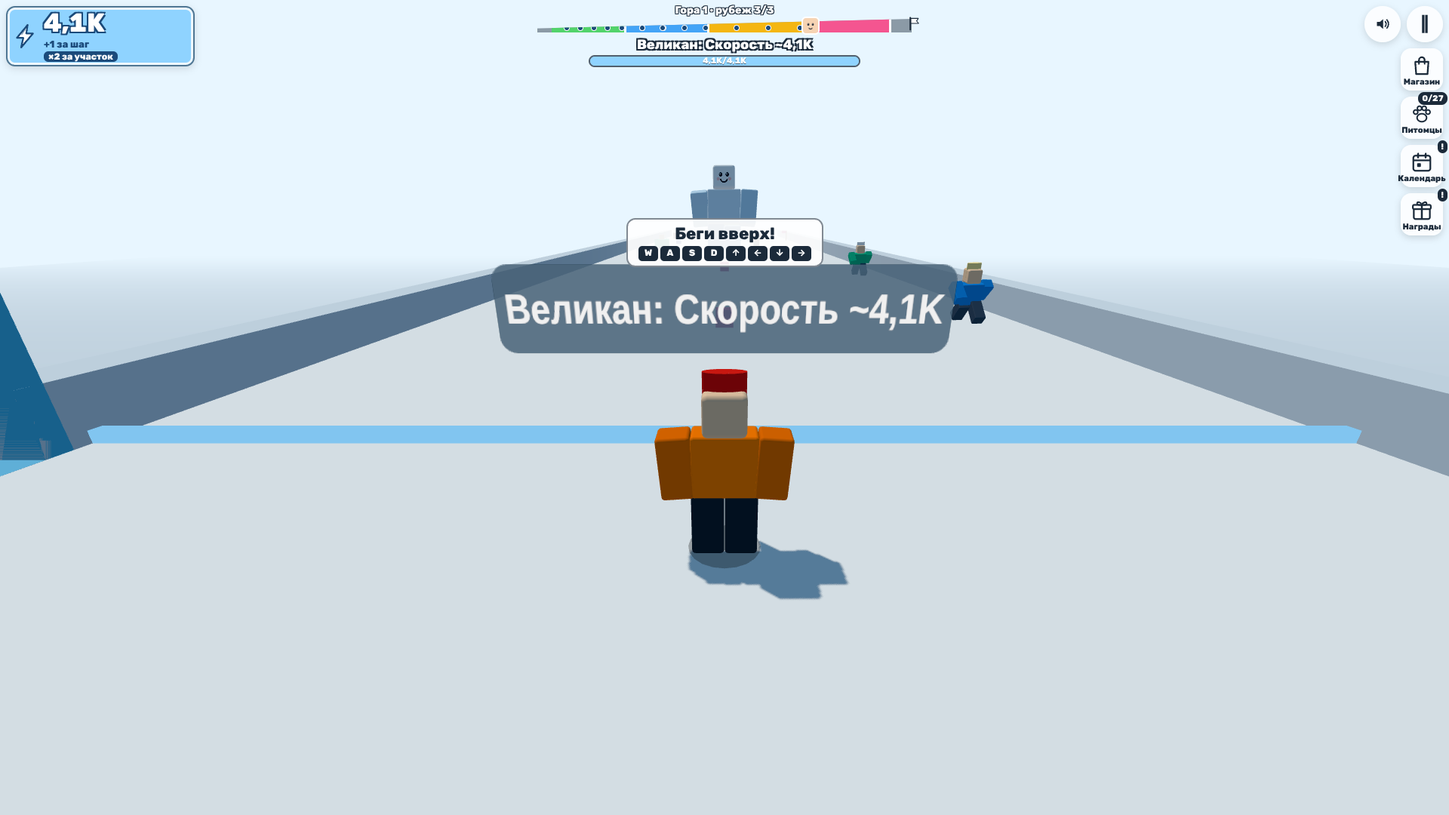
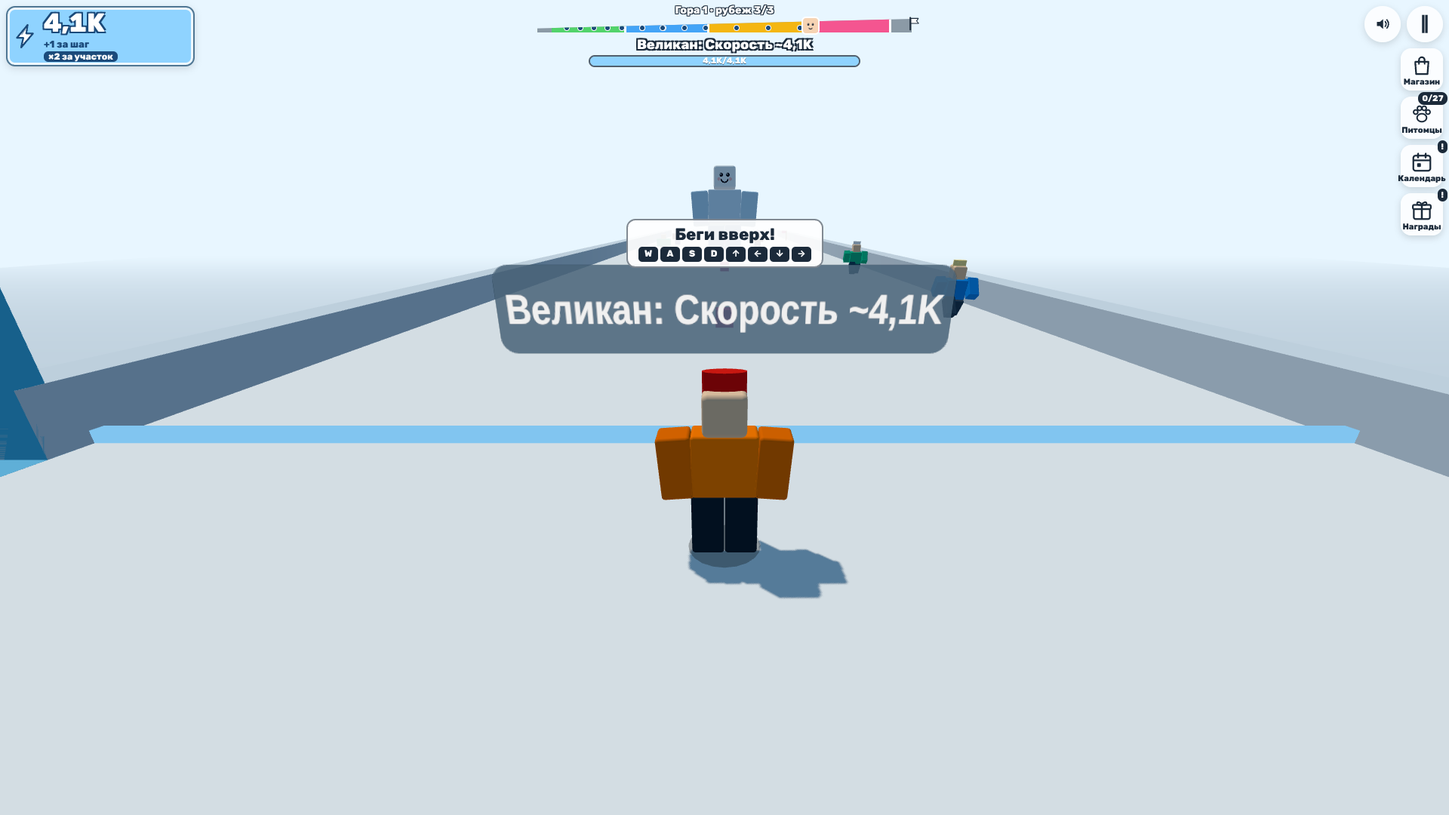
Ответ продюсера Q-047: великан выбирает героя, ботов ловит реже
Герой в зоне - всегда цель великана, бот - только пока героя нет;
bots.json boss.passShare 0,6 -> 0,8. Q-048 - в FM, идея лобби - Q-049.

Claude-Session: https://claude.ai/code/session_014PqKRgk8jBLya2eK7fSJBJ

diff --git a/src/sim/boss.ts b/src/sim/boss.ts
@@ -1,4 +1,4 @@
-// What: The giant of the open slope: each zone of worlds.json bosses[] with its giants — patrol along the slope, turn to the nearest runner (hero or bot), the slap or the slip past, the way back.
+// What: The giant of the open slope: each zone of worlds.json bosses[] with its giants — patrol along the slope, turn to the hero in the zone (else the nearest bot running it), the slap or the slip past, the way back.
 // Called by: sim/world.ts (createBoss, step every tick, its events go out through the sim bus); tests/sim/boss.test.ts.
 // Keep: Pure TS, no DOM, deterministic; every number from the data (zones, speeds, turnSec, returnMult, helpers — worlds.json; margin, reach — game.json threat.boss).
 
@@ -53,7 +53,7 @@ export interface BossEvents {
   helperHit: { tick: number; zone: number; slow: number; slowSec: number };
 }
 
-/** A bot running a giant's zone (docs/01-gdd.md 18.5): the giant goes at the nearest runner, bot or hero. */
+/** A bot running a giant's zone (docs/01-gdd.md 18.5): the giant goes at it only while the hero is not in the zone. */
 export interface BossRunner {
   bot: number;
   z: number;
@@ -185,9 +185,10 @@ export function createBoss(
             if (runners.length === 0) s.giants.forEach((g) => (g.mode = g.mode === 'sit' ? 'sit' : 'back'));
           }
         }
-        // The nearest runner to a giant: the hero in the zone or a bot running it.
+        // The hero in the zone first (producer 12.10, Q-047: the giant is about him); else the nearest bot running it.
         const target = (g: GiantState): number => {
-          let best = s.hero === 'in' ? hero.z : NaN;
+          if (s.hero === 'in') return hero.z;
+          let best = NaN;
           for (const r of runners) if (!slapped.has(r.bot) && !(Math.abs(r.z - g.z) >= Math.abs(best - g.z))) best = r.z;
           return best;
         };

diff --git a/tests/sim/rg-boss-bots.test.ts b/tests/sim/rg-boss-bots.test.ts
@@ -7,7 +7,7 @@ import { createBoss, type BossEvents } from '../../src/sim/boss.ts';
 import { createSim } from '../../src/sim/world.ts';
 import type { BalanceJson, BotsJson, GameJson, TuningJson, WorldBoss, WorldsJson } from '../../src/content/types.ts';
 
-// RG-10: the giant goes at bots too (docs/01-gdd.md 18.5; docs/01a-content.md 17.4).
+// RG-10: the giant goes at bots too, at the hero first (docs/01-gdd.md 18.5; docs/01a-content.md 17.4; Q-047).
 const root = resolve(__dirname, '../..');
 const read = <T>(f: string): T => JSON.parse(readFileSync(resolve(root, 'content/avalanche', f), 'utf8')) as T;
 const balance = mergePatch(read<BalanceJson>('balance.json'), read('pace/open/balance.json'));
@@ -52,7 +52,7 @@ describe('the giant goes at bots too (RG-10)', () => {
     expect(ev2.filter((e) => e.name === 'bossBotCaught')).toEqual([]);
   });
 
-  it('with the hero and a bot in the zone the giant goes at the nearer one', () => {
+  it('with the hero and a bot in the zone the giant goes at the hero, even past a nearer bot (Q-047)', () => {
     const { b } = boss();
     const g = b.zones[0]!.giants[0]!;
     g.z = 150;
@@ -60,8 +60,8 @@ describe('the giant goes at bots too (RG-10)', () => {
     const bot = { bot: 0, z: 125, speed: 0 };
     for (let i = 0; i < 40; i++) b.step(DT, hero, true, i, [bot]);
     expect(g.mode).toBe('chase');
-    expect(g.dir).toBe(-1);
-    expect(g.z).toBeLessThan(150);
+    expect(g.dir).toBe(1);
+    expect(g.z).toBeGreaterThan(150);
   });
 
   it('mountain 1: bots wait by the zone, run it; some slapped and rolled back to its start, about passShare past him', () => {

diff --git a/QUESTIONS.md b/QUESTIONS.md
@@ -367,16 +367,26 @@
 - По умолчанию: A — для игры 2 это тоже данные (`giants[]` с `phase` и ключ `boss.signPair` в i18n), стат, тема и числа в коде не появились; гора 1 байт в байт
 - Как переключить: убрать `boss.giants` у гор 9–10 в `worlds-spec.json`, затем `npm run gen:worlds` — вернётся один великан
 
-### Q-047 · Цель Метрики `boss_bot_caught`: оставить или убрать · по умолчанию
+### Q-047 · Цель Метрики `boss_bot_caught`: оставить или убрать · решён
 - Где: `docs/06-analytics.md`, раздел 2 (таблица «Простор») и раздел 6 (цели простора); фича RG-10
 - Суть: великан хлопает ботов несколько раз за заход героя в зону — событие частое и не про игрока; в отчётах Метрики оно забьёт цели простора и ничего не скажет об удержании
 - Варианты: A — убрать из целей, оставить в буфере `__TEST__.events` для тестов (цели простора 10, итого 47 / 51); B — оставить как есть (11, итого 48 / 52)
 - По умолчанию: B — так записано в `06`, а цель на счётчике продюсер создаёт сам: не создать её — то же, что A, без правки кода
 - Как переключить: на A — удалить `boss_bot_caught` из списка целей `docs/06` раздел 6 и строку в `tests/analytics/open-events.test.ts`; вызов `track` в `src/main.ts` можно оставить
+- Решение продюсера (12.10): «если можно то сделать реже ловлю ботов, чаще сделать таргет на игрока если у великана есть выбор». Сделано: герой в зоне — цель великана всегда, бот — только пока героя в зоне нет (`src/sim/boss.ts`); `bots.json boss.passShare` 0,6 → 0,8 — ботов ловят реже, событие реже. Цель Метрики остаётся (B)
 
-### Q-048 · Через бортик склона и за портал вершины можно упасть · открыт
+### Q-048 · Через бортик склона и за портал вершины можно упасть · решён
 - Где: плейтест-смоук RG (`docs/evidence/rg/playtest.md`, худший момент 1 и «пропасть — откат на 330 ед»); темп `open` с вехи PS, не элементы RG
 - Суть: бортик склона 3 ед, прыжок героя выше: прыгая вбок, герой встаёт на бортик и падает за край (симуляция: горы 1, 5, 9, любая точка); за порталом вершины обрыв. Падение — белый экран и возврат к флажку, до 300 ед назад. В прогоне ПК — 27 падений за 2 минуты у портала горы 1
 - Варианты: A — невидимый коллайдер над бортиками до +6 ед и стенка за порталом вершины (код сборщика уровня, `worlds.json` и гора 1 по данным не меняются, первая минута та же для того, кто не прыгает за край); B — оставить, упавший возвращается к флажку
 - По умолчанию: ничего не менял — вне вехи RG и меняет поведение горы 1 («гора 1 без изменений»). Рекомендую A первой правкой вехи FM: дёшево, бьёт прямо в удержание первого дня
 - Как переключить: решение продюсера — сборщик делает A отдельной фичей с e2e «прыжки вбок у бортика и бег за портал — без падения»
+- Решение продюсера (12.10): A — чинить первой правкой вехи FM
+
+### Q-049 · База-лобби с порталами в зоны · открыт, к сессии проектирования FM
+- Где: идея продюсера 12.10 после игры в популярные обби каталога; затрагивает первую минуту (`01` 6.2, 17.8), FM, `03`
+- Суть (слова продюсера): «сделать базу с порталами… дорожки на базе, магазины, переход в телеграм канал за награду, таблица лидеров и подобное, НО очень важно сделать это понятно, мы не будем делать как в других играх сотни всего. Пусть будет как бы отправная точка-лобби, через которую игроки могут бежать в разные зоны уровней и возвращаться на базу после их прохождения… Главное это не перегрузить и сделать понятным ftue»
+- Что уже есть для этого: лагерь горы с дорожкой и стендами яиц, портал вершины, переход «к горе N», магазин и питомцы окнами, таблица рекордов выключена (Q-004)
+- Ограничения: переход в Telegram или любую соцсеть за награду на Яндексе запрещён — `03`, CNT-05 и 8.4 (нет ссылок, значков соцсетей, призывов «подпишись»); таблица рекордов — кнопка входа (SDK-06) и лидерборд в консоли до сборки (`03`, раздел про подачу)
+- Мой вывод для проектирования: лобби — хороший «дом» для возврата и меты, но ставить его перед первым забегом рискованно — первая минута сейчас ведёт сразу в бег и первый рубеж за 14 с (F1), а лишний экран до бега — главный риск удержания первого дня. Рекомендую: первый забег — как сейчас, лобби открывается после первой вершины (портал ведёт на базу), на базе 3–4 точки (порталы гор, дорожка, магазин, рекорды)
+- По умолчанию: ничего не строю до сессии проектирования FM

diff --git a/docs/01-gdd.md b/docs/01-gdd.md
@@ -1164,7 +1164,7 @@ FPS на телефоне продюсера — по итогам вехи PS (
 Почему шар — не ловкость: уворот — это выбор полосы со следом за 3 с, как выбор укрытия на сирене; попадание стоит 3 с и не отбрасывает. В теснине шар не катится (сойти некуда). Почему буран со «шаг ×2»: чистое замедление на 12 с в игре про рост числа — наказание без выбора; с компенсацией буран становится «пробиться сквозь» (светлый паттерн: награда вместо наказания — база геймдизайна, удержание). Как переключить — `events.blizzard.stepMult` 1 (`QUESTIONS.md` Q-041).
 
 ### 18.5 Великан: гоняется за ботами, помощники со снежками, два великана
-- **За ботами тоже (все горы).** Бот у начала зоны ждёт в гроте зоны 2–6 с и бежит зону со своей скоростью; великан разворачивается к ближайшему бегущему в зоне — боту или герою — и идёт на него; пойманного бота хлопок откатывает к началу зоны комом (как героя, 17.6), прошедший садится у вершины. Доля ботов, которым хватает скорости, — `bots.boss.passShare` 0,6: игрок с подножия видит и проходы, и поимки (показать на примере других). Герой в зоне, пока великан занят ботом, может проскочить — это честно и не ломает совет: модель (17.12) по-прежнему считает великана занятым героем, то есть пессимистична.
+- **За ботами тоже (все горы).** Бот у начала зоны ждёт в гроте зоны 2–6 с и бежит зону со своей скоростью; великан разворачивается к герою, если тот в зоне, иначе к ближайшему бегущему боту, и идёт на него (решение продюсера 12.10, Q-047: великан — про игрока); пойманного бота хлопок откатывает к началу зоны комом (как героя, 17.6), прошедший садится у вершины. Доля ботов, которым хватает скорости, — `bots.boss.passShare` 0,8 (было 0,6; Q-047 — ловит реже): игрок с подножия видит и проходы, и поимки (показать на примере других). Герой в зоне, пока великан занят ботом, может проскочить — это честно и не ломает совет: модель (17.12) по-прежнему считает великана занятым героем, то есть пессимистична.
 - **Помощники (с горы 4, `bosses[].helpers[]`).** На бортиках зоны стоят 1 (горы 4–6) или 2 (горы 7–10) снежных помощника ростом в треть великана из тех же частей. Пока герой в зоне, помощник раз в `throwEverySec` 2,5 с бросает снежок 1 ед в точку, где герой будет через `flightSec` 1 с; снежок виден в воздухе, со свистом. Попал — статус «замедлен» ×0,85 на 1 с (как 18.4), тост «Снежок!». Уворот не нужен: скорость великана на горах с помощниками подогнана так, что герой со Скоростью совета проходит и с одним снежком в миг встречи: `V_b = v(число) × slow / (1 + margin)` (модель, F12). Кто бежит быстрее совета, снежков не замечает; кто стоит — ловят, как раньше. Помощники не бросают в ботов и в героя вне зоны; при поимке героя или проходе зоны замирают и машут.
 - **Два великана (горы 9–10, `giants[]` ×2, только данными — PS-07 это уже умеет).** Патрулируют зону с разных концов (сдвиг фазы `phase` 0,5), оба разворачиваются к бегущему; проход — проскочить обоих со Скоростью выше V_b × 1,05, встреча с каждым — то же сравнение скоростей. Имя — «Северные великаны» (`boss.nameNorthPair`), табличка одна. Число-совет не меняется (на горах 9–10 V_b упирается в потолок бега, 16.2).
 - **Статус «замедлен»** — один на всех (шар, снежок, буран): `hero.slow = { mult, until }` в симуляции, скорость = v(S) × mult, на плашке Скорости значок «×0,85»; модуль не новый — поле героя рядом с `speedFactor` кома (4.5). В окнах, на паузе и на дорожке статус не тикает.

diff --git a/progress.md b/progress.md
@@ -42,6 +42,13 @@
 
 ## Записи
 
+### 2026-10-12 · Ответы продюсера после RG · великан выбирает героя (Q-047), бортик — в FM (Q-048), идея лобби (Q-049)
+- Сделано: по ответу на Q-047 («реже ловлю ботов, чаще таргет на игрока, если у великана есть выбор») — герой в зоне теперь всегда цель великана, бот — только пока героя в зоне нет (`src/sim/boss.ts`); `bots.json boss.passShare` 0,6 → 0,8: ботов ловят реже, `boss_bot_caught` реже, цель Метрики остаётся. Q-048 — чинить первой правкой вехи FM. Идея продюсера о базе-лобби с порталами — Q-049 для сессии проектирования FM (Telegram за награду на Яндексе запрещён — `03`, CNT-05)
+- Тесты: `tests/sim/rg-boss-bots.test.ts` — 3 из 3 (великан идёт на героя мимо более близкого бота; доля проходов ботов ≈ 0,8); `boss`, `rg-helpers`, `rg-two-giants` без правок — всего 18 из 18; e2e на свежей сборке `rg-boss`, `open-boss`, `rg-two-giants`, `rg-helpers` — 7 из 7; `npm run typecheck` чисто; `npm test` — 311 прошло, 0 упало; `sim:balance` open — 13 PASS (модель великана за ботами не считает)
+- Данные: `bots.json boss.passShare` 0,8; `01` 18.5 и `01a` 17.4 — новое правило цели
+- Разведка: цель великана выбиралась одной функцией `target` в `boss.ts`; минимальный путь — герой первым в ней и доля проходов ботов данными
+- Ждёт решения продюсера: контрольная точка RG (15 минут по ссылке, пункты итога вехи RG) и сессия проектирования FM с Q-048 и Q-049. Ночной сессии не стартовать
+
 ### 2026-10-12 · Итог вехи RG · разнообразные горы
 - Результат: у каждой из 10 гор простора свой характер по правилу «одна новинка на гору»: пропасть с трамплинами (с горы 2), теснина со льдом и поле (3), помощники великана со снежками (с 4), событие «Шар!» (с 5), тоннель-обход (6), событие «Буран» (с 7), горб с полётом (8), два великана (9–10), крупные секторы всего сразу (8–10); великан гоняется и за ботами, пингвины ходят, птицы сидят, камера в тесном гроте не упирается в героя. Гора 1 и первая минута — байт в байт как на PS
 - Фичи: RG-01 … RG-14 — passes: true (P1 RG-07, RG-11, RG-12 сделаны, не отложены)

diff --git a/docs/01a-content.md b/docs/01a-content.md
@@ -1036,7 +1036,7 @@
 | `boss.speed` с помощниками | `V_b = v(число) × 0,85 / 1,05`, вниз до 0,1 (модель, F12; `worlds-spec.json mountains[].boss.speed`, после подгонки RG-14 — перепроверка `tests/sim/rg-helpers.test.ts`) | гора 4: 43,9 → 37,3; гора 5: 47,0 → 40,0; гора 6: 50,8 → 43,2; гора 7: 54,7 → 46,4; гора 8: 58,9 → 50,1; горы 9–10: 60,9 → 51,8 |
 | `bosses[].giants[]` горы 9–10 | `[{ "speed": V_b, "patrol": "alongZ", "phase": 0 }, { "speed": V_b, "patrol": "alongZ", "phase": 0.5 }]` | `worlds.json`; `phase` — доля зоны, откуда стартует патруль |
 | `theme.json.boss.helper` | `height` 7, цвета как великан, шапка — цвет зоны | — |
-| `bots.json boss.waitSec` / `passShare` / `speedK` | [2, 6] / 0,6 / [0,85, 1,15] | бот ждёт в гроте зоны и бежит; 60% ботов бегут зону со скоростью V_b × 1,15 (проскакивают), остальные — V_b × 0,85 (хлопок, ком к началу зоны) |
+| `bots.json boss.waitSec` / `passShare` / `speedK` | [2, 6] / 0,8 / [0,85, 1,15] | бот ждёт в гроте зоны и бежит; 80% ботов бегут зону со скоростью V_b × 1,15 (проскакивают), остальные — V_b × 0,85 (хлопок, ком к началу зоны); герой в зоне — цель великана всегда (Q-047) |
 
 ### 17.5 Украшения (`theme.json.decor`)
 
